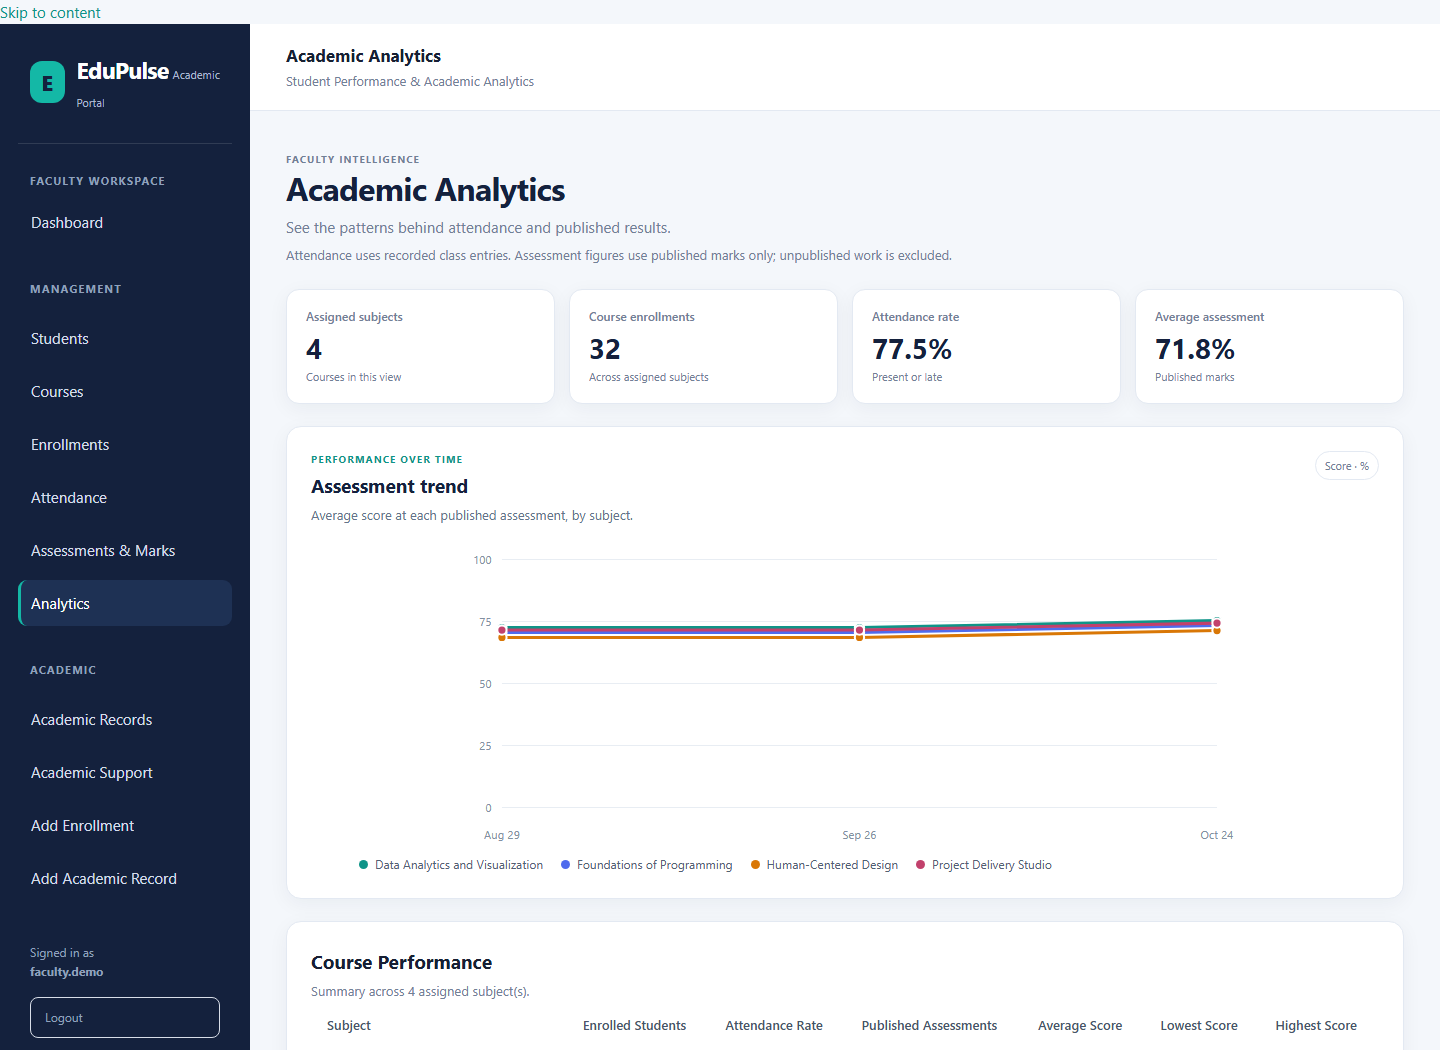
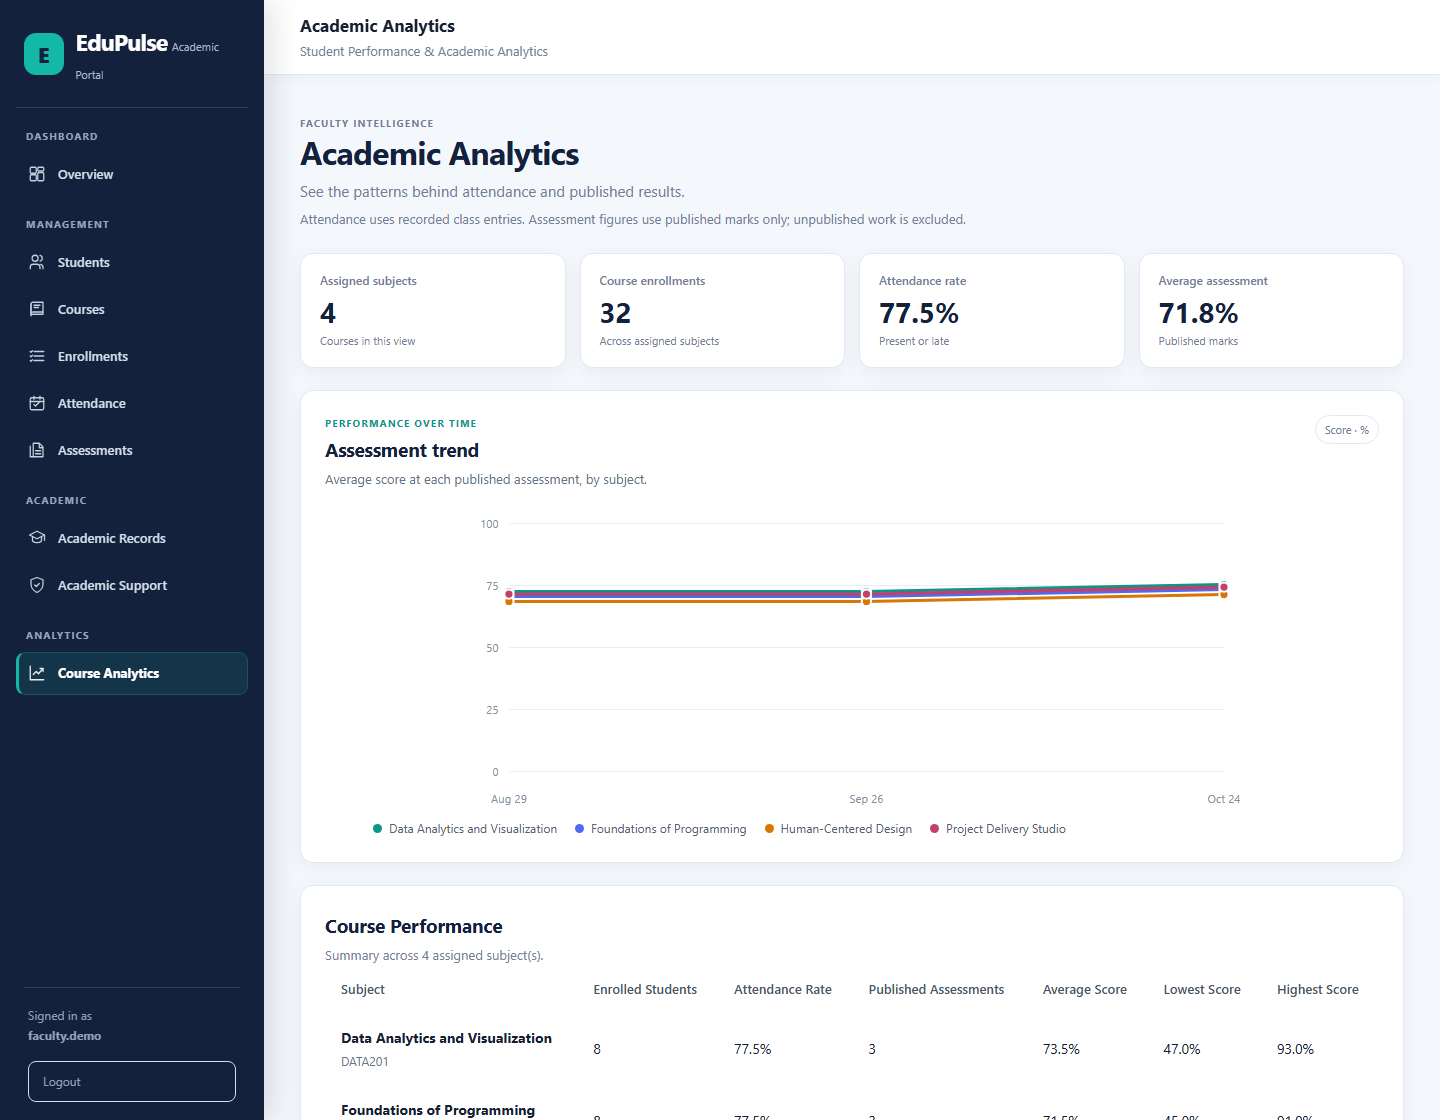
Refresh README screenshots

diff --git a/README.md b/README.md
@@ -18,15 +18,19 @@ The project focuses on three practical engineering concerns: **explainable evalu
 
 ## Screenshots
 
-These screenshots are from the running application populated with the included synthetic demo cohort. They show real faculty dashboards, course analytics, and a student's dated subject record.
+These screenshots are from the running application populated with the included synthetic demo cohort. They show the current faculty and student workflows, including published assessment results.
 
 ### Sign in
 
-![EduPulse sign-in page](docs/images/sign-in.svg)
+![EduPulse sign-in page](docs/images/sign-in.png)
 
-| Faculty dashboard | Academic analytics | Student subject detail |
+| Faculty dashboard | Student dashboard |
 |---|---|---|
-| [![Faculty dashboard](docs/images/faculty-dashboard.png)](docs/images/faculty-dashboard.png) | [![Academic analytics](docs/images/analytics-dashboard.png)](docs/images/analytics-dashboard.png) | [![Student subject detail](docs/images/student-subject-detail.png)](docs/images/student-subject-detail.png) |
+| [![Faculty dashboard](docs/images/faculty-dashboard.png)](docs/images/faculty-dashboard.png) | [![Student dashboard](docs/images/student-dashboard.png)](docs/images/student-dashboard.png) |
+| Academic analytics | Student assessment results |
+| [![Academic analytics](docs/images/analytics-dashboard.png)](docs/images/analytics-dashboard.png) | [![Student assessment results](docs/images/student-assessment-results.png)](docs/images/student-assessment-results.png) |
+| Student subject detail | |
+| [![Student subject detail](docs/images/student-subject-detail.png)](docs/images/student-subject-detail.png) | |
 
 To explore the same workflows locally, follow [Getting started](#getting-started) and the demo account instructions below.
 
